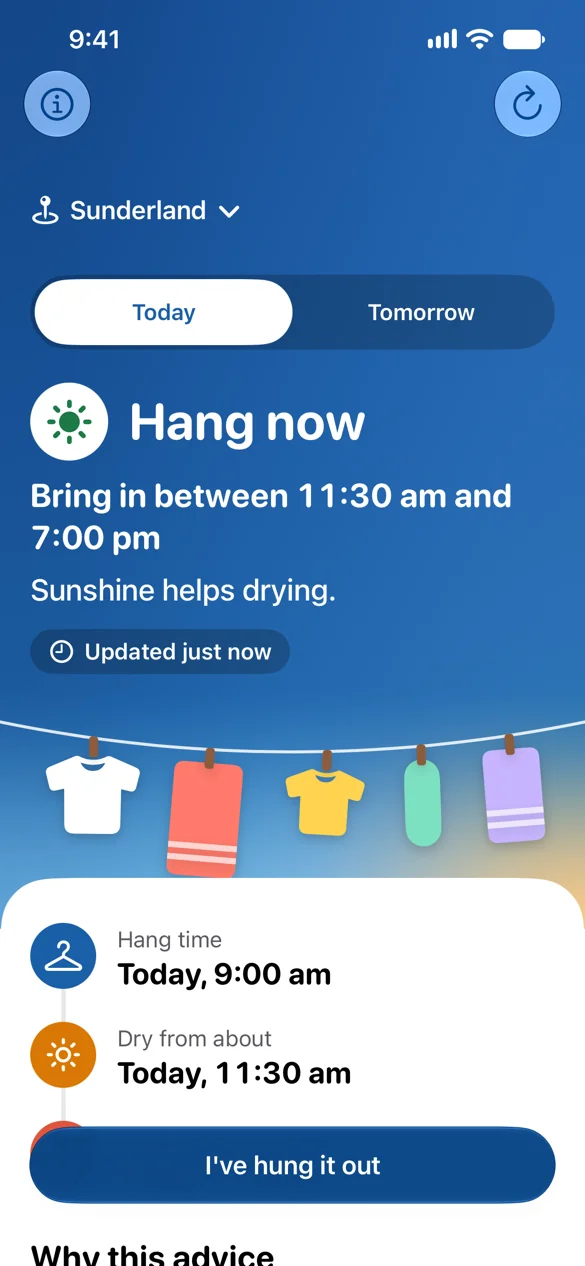
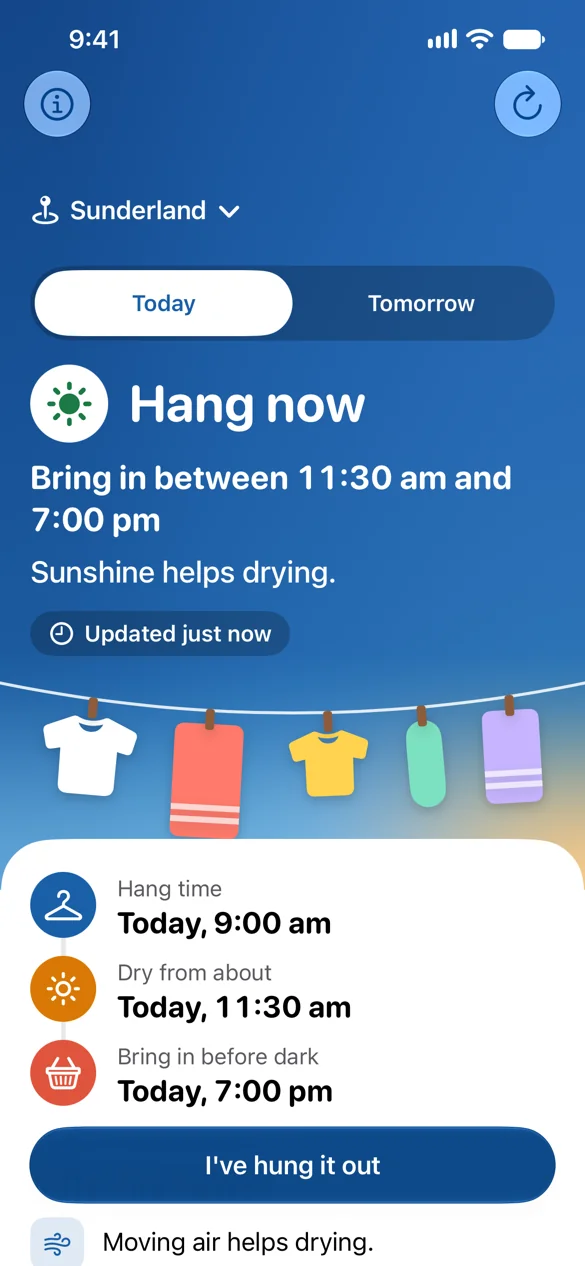
Show the PegCast 1.0 screens on the PegCast page
- Take the images and og.png from PegCast run 39152900770, at release-stack 52b6970f.
- Home shows all three steps above the I've hung it out button.
- The weather charts mark the Recommended Window with a green band at the top.
- Describe the three steps, the band and the daylight tint in the alt texts.
- Say that a small chance of rain only adds a caution.

Changed region(s): [[0.0, 0.1848, 1.0, 0.9242], [0.0308, 0.955, 0.4923, 1.0], [0.5231, 0.955, 0.6462, 1.0]]

diff --git a/src/app/pegcast/page.tsx b/src/app/pegcast/page.tsx
@@ -56,9 +56,9 @@ export const viewport: Viewport = {
 
 const homeAlt: Themed = {
   light:
-    "PegCast Home screen for Sunderland, under a blue day sky. The sky says Hang now. Bring in between 11:30 am and 7:00 pm. Sunshine helps drying. Below, on a white sheet, are the steps. Hang time: Today, 9:00 am. Dry from about: Today, 11:30 am. A full-width I've hung it out button covers the third step.",
+    "PegCast Home screen for Sunderland, under a blue day sky. The sky says Hang now. Bring in between 11:30 am and 7:00 pm. Sunshine helps drying. Below, on a white sheet, are three steps. Hang time: Today, 9:00 am. Dry from about: Today, 11:30 am. Bring in before dark: Today, 7:00 pm. Below the steps are a full-width I've hung it out button and the reason Moving air helps drying.",
   dark:
-    "PegCast Home screen for Sunderland, under a navy and purple night sky. The sky says Hang now. Bring in between 11:30 am and 7:00 pm. Sunshine helps drying. Below, on a black sheet, are the steps. Hang time: Today, 9:00 am. Dry from about: Today, 11:30 am. A full-width I've hung it out button covers the third step.",
+    "PegCast Home screen for Sunderland, under a navy and purple night sky. The sky says Hang now. Bring in between 11:30 am and 7:00 pm. Sunshine helps drying. Below, on a black sheet, are three steps. Hang time: Today, 9:00 am. Dry from about: Today, 11:30 am. Bring in before dark: Today, 7:00 pm. Below the steps are a full-width I've hung it out button and the reason Moving air helps drying.",
 };
 const loadPlanAlt: Themed = {
   light:
@@ -80,9 +80,9 @@ const liveActivityAlt: Themed = {
 };
 const chartAlt: Themed = {
   light:
-    "Two weather charts on a white background, from 9 am to after 9 pm. Rain chance: the rain chance is 0% in every hour. Wind: the wind is 7 mph in every hour. A green line marks the hang time, 9 am. Two dotted orange lines, near 11 am and 11:30 am, mark when it should be dry. A dashed red line marks the time to bring it in, 7:00 pm. A pale shade marks the daylight hours, and a Daylight key sits below.",
+    "Two weather charts on a white background, from 9 am to after 9 pm. Rain chance: the rain chance is 0% in every hour. Wind: the wind is 7 mph in every hour. A green band along the top of each chart marks the Recommended Window, 9 am to 7:00 pm. A green line marks the hang time, 9 am. Two dotted orange lines, near 11 am and 11:30 am, mark when it should be dry. A dashed red line marks the time to bring it in, 7:00 pm. A pale orange tint marks the daylight hours. It matches the Daylight key below.",
   dark:
-    "Two weather charts on a black background, from 9 am to after 9 pm. Rain chance: the rain chance is 0% in every hour. Wind: the wind is 7 mph in every hour. A green line marks the hang time, 9 am. Two dotted yellow lines, near 11 am and 11:30 am, mark when it should be dry. A dashed red line marks the time to bring it in, 7:00 pm. A dark shade marks the daylight hours, and a Daylight key sits below.",
+    "Two weather charts on a black background, from 9 am to after 9 pm. Rain chance: the rain chance is 0% in every hour. Wind: the wind is 7 mph in every hour. A green band along the top of each chart marks the Recommended Window, 9 am to 7:00 pm. A green line marks the hang time, 9 am. Two dotted yellow lines, near 11 am and 11:30 am, mark when it should be dry. A dashed red line marks the time to bring it in, 7:00 pm. A dark brown tint marks the daylight hours. It matches the Daylight key below.",
 };
 /** The app icon sits beside the name "PegCast", so it is decoration. */
 const decorative: Themed = { light: "", dark: "" };
@@ -264,7 +264,9 @@ export default function PegCastPage() {
                 </Feature>
                 <Feature title="Tells you why">
                   The time to bring the washing in comes with its reason:
-                  dark, rain, damp air or strong wind.
+                  dark, rain, damp air or strong wind. A small chance of rain
+                  only adds a caution, such as &ldquo;A light shower is possible
+                  at 2:00 pm.&rdquo;
                 </Feature>
                 <Feature title="The Load Plan">
                   Plan a load for later. PegCast checks the weather again
@@ -332,8 +334,9 @@ export default function PegCastPage() {
               <div className="max-w-xl">
                 <Feature title="The weather chart">
                   Small charts show the drying speed, the chance of rain and
-                  the wind for each hour. Lines mark the advice times, and
-                  daylight hours are shaded.
+                  the wind for each hour. A green band marks the Recommended
+                  Window. Lines mark the advice times, and daylight hours are
+                  shaded.
                 </Feature>
               </div>
             </div>
